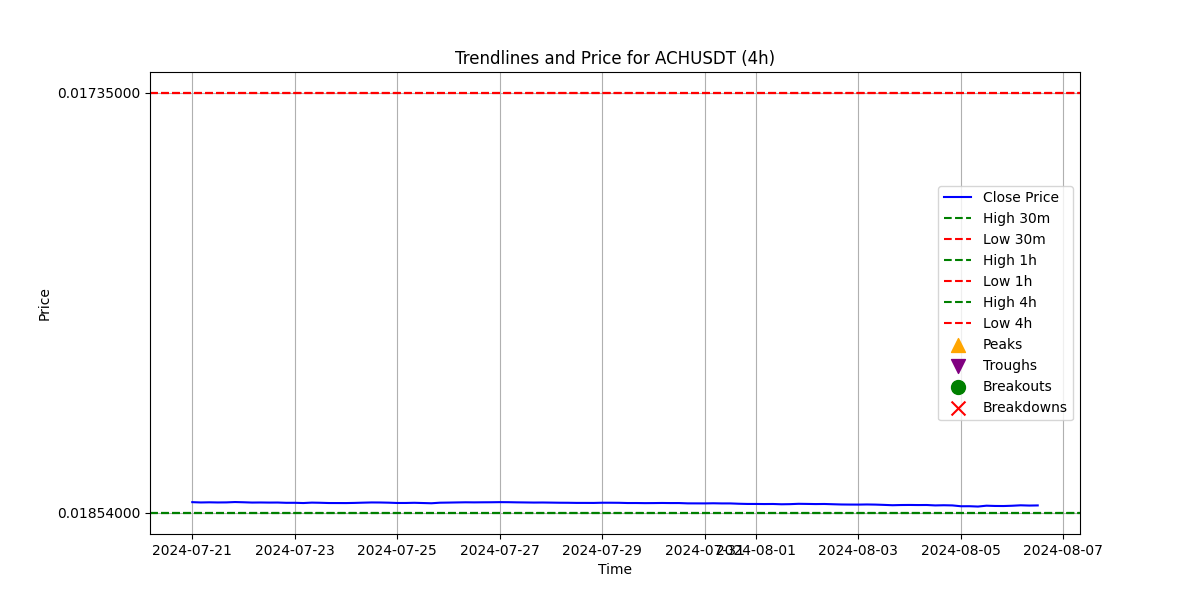
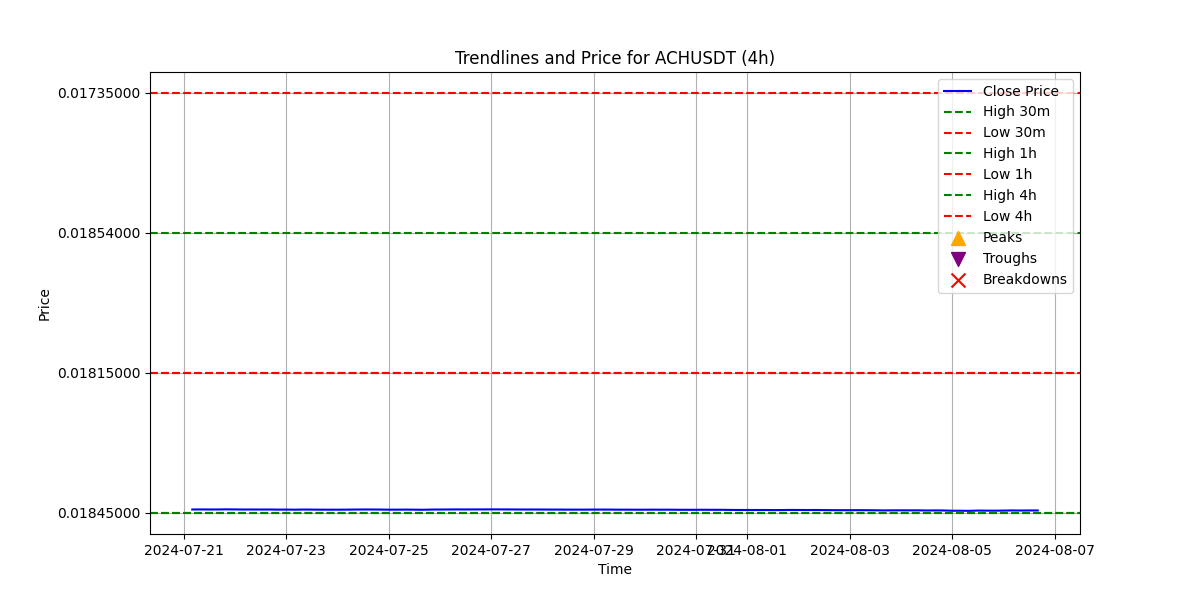
plot not working after changing the +++++
plot not working after changing the +++++

diff --git a/src/main.py b/src/main.py
@@ -60,6 +60,11 @@ async def process_symbol(symbol, backtest=True):
         # Get high and low prices for multiple timeframes
         timeframe_data = update_data_multiple_timeframes(data_fetcher.df)
         high_timeframe, low_timeframe = update_data(data_fetcher.df)
+        
+        # Ensure high_timeframe and low_timeframe are floats
+        high_timeframe = float(high_timeframe)
+        low_timeframe = float(low_timeframe)
+
         metrics = trading_data.calculate_metrics()
 
         if metrics is None:
@@ -70,13 +75,11 @@ async def process_symbol(symbol, backtest=True):
         current_price = metrics['current_price']
         proximity_alert = ""
         
-        for timeframe, levels in timeframe_data.items():
-            high = float(levels['high'])  # Ensure high is a float
-            low = float(levels['low'])    # Ensure low is a float
-            if abs(current_price - high) / high <= 0.05:  # Within 5%
-                proximity_alert += "++"
-            if abs(current_price - low) / low <= 0.05:  # Within 5%
-                proximity_alert += "++"
+        # Check proximity to support and resistance levels
+        if abs(current_price - low_timeframe) / low_timeframe <= 0.05:  # Within 5% of support
+            proximity_alert = "🟢"
+        elif abs(current_price - high_timeframe) / high_timeframe <= 0.05:  # Within 5% of resistance
+            proximity_alert = "🔴"
 
         # Log metrics to the terminal
         logging.info(f"Metrics for {symbol}:")
@@ -98,8 +101,8 @@ async def process_symbol(symbol, backtest=True):
             await send_message_to_telegram(
                 symbol + proximity_alert,  # Append proximity alert to symbol
                 metrics['current_price'],
-                float(high_timeframe),  # Convert to float
-                float(low_timeframe),    # Convert to float
+                high_timeframe,  # Ensure these are floats
+                low_timeframe,    # Ensure these are floats
                 metrics['buy_volume'],
                 metrics['sell_volume'],
                 metrics['volume_difference'],

diff --git a/src/telegram_notifier.py b/src/telegram_notifier.py
@@ -3,6 +3,7 @@ from telegram import Bot
 import logging
 import config  # Ensure you import the config module
 import pandas as pd  # Import pandas for date formatting
+
 async def send_message_to_telegram(symbol, current_price, high_timeframe, low_timeframe, buy_volume, sell_volume, volume_difference, volume_btc, volume_percentage, support, resistance, distance_from_support, distance_from_resistance, price_change, image_buffer):
     """
     Send a message to Telegram with trading metrics and a plot image.
@@ -28,7 +29,7 @@ async def send_message_to_telegram(symbol, current_price, high_timeframe, low_ti
     
     # Constructing the notification message
     message = (
-        f"📊 Trading Update for {symbol} ({config.TIMEFRAME})\n"
+        f"📊 Trading Update for {symbol}\n"
         f"📈 Current Price: {current_price:.4f}\n"
         f"📈 Highest Price ({config.TIMEFRAME}): {high_timeframe:.4f}\n"
         f"📉 Lowest Price ({config.TIMEFRAME}): {low_timeframe:.4f}\n"
@@ -43,7 +44,7 @@ async def send_message_to_telegram(symbol, current_price, high_timeframe, low_ti
         f"📏 Distance from Resistance: {distance_from_resistance:.2f}%\n"
         f"📉 Price Change: {price_change:.2f}%\n"
         f"Time: {pd.Timestamp.now().strftime('%d-%m-%Y %I:%M:%S %p')}\n"
-        f"𝙏𝙑 Trading View Chart (Click here) (https://www.tradingview.com/chart?symbol=Binance%3A{symbol}USDT&interval={config.TIMEFRAME})"
+        
     )
 
     try:

diff --git a/src/config.py b/src/config.py
@@ -33,4 +33,4 @@ SHORT_WINDOW = 5  # Short-term moving average window
 LONG_WINDOW = 20   # Long-term moving average window
 
 # Timeframe for data fetching
-TIMEFRAME = '4h'  # Default timeframe (can be changed to '1m', '5m', '1h', '1d', etc.)
+TIMEFRAME = '1h'  # Default timeframe (can be changed to '1m', '5m', '1h', '1d', etc.)
